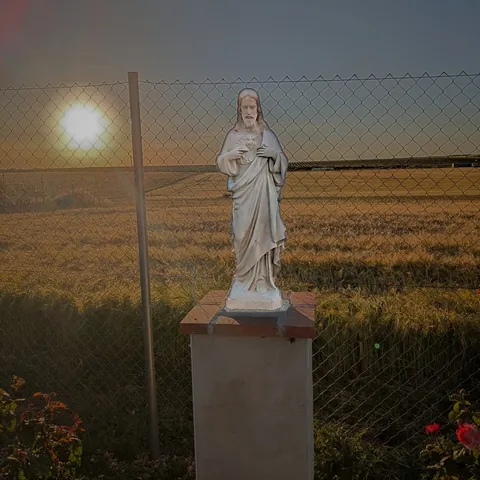
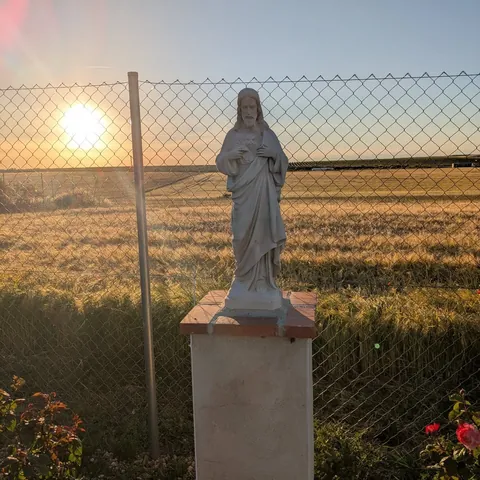
Sagrado Corazón: volver a la foto original
Claude-Session: https://claude.ai/code/session_01CUYjSQBrTt6S214k245qsV

diff --git a/en/index.html b/en/index.html
@@ -434,7 +434,7 @@ textarea{min-height:9rem;resize:vertical}
         <figure><img src="../fotos/paseo-burro-480.webp" srcset="../fotos/paseo-burro-480.webp 480w, ../fotos/paseo-burro-900.webp 900w" sizes="(max-width:880px) 50vw, 260px" width="900" height="900" loading="lazy" decoding="async" alt="Children riding the donkey across a stubble field, with adults walking alongside"><figcaption>Donkey rides for the youngest</figcaption></figure>
         <figure><img src="../fotos/capilla-perros-480.webp" srcset="../fotos/capilla-perros-480.webp 480w, ../fotos/capilla-perros-900.webp 900w" sizes="(max-width:880px) 50vw, 260px" width="900" height="900" loading="lazy" decoding="async" alt="A small white chapel with a bell gable; in front, the dogs rest on bales of straw"><figcaption>The chapel, under the dogs’ watch</figcaption></figure>
         <figure><img src="../fotos/capilla-interior-480.webp" srcset="../fotos/capilla-interior-480.webp 480w, ../fotos/capilla-interior-900.webp 900w" sizes="(max-width:880px) 50vw, 260px" width="900" height="900" loading="lazy" decoding="async" alt="The simple interior of the chapel, with an altar, a crucifix and two statues; a man sits reading on a bench"><figcaption>A time of prayer and silence in the hermitage chapel</figcaption></figure>
-        <figure><img src="../fotos/sagrado-corazon-480.webp?v=4" srcset="../fotos/sagrado-corazon-480.webp?v=4 480w, ../fotos/sagrado-corazon-900.webp?v=4 900w" sizes="(max-width:880px) 50vw, 260px" width="900" height="900" loading="lazy" decoding="async" alt="A statue of the Sacred Heart on a pedestal, facing a cereal field with the sun low"><figcaption>The Sacred Heart, facing the fields</figcaption></figure>
+        <figure><img src="../fotos/sagrado-corazon-480.webp?v=5" srcset="../fotos/sagrado-corazon-480.webp?v=5 480w, ../fotos/sagrado-corazon-900.webp?v=5 900w" sizes="(max-width:880px) 50vw, 260px" width="900" height="900" loading="lazy" decoding="async" alt="A statue of the Sacred Heart on a pedestal, facing a cereal field with the sun low"><figcaption>The Sacred Heart, facing the fields</figcaption></figure>
         <figure><img src="../fotos/cruz-piedra-480.webp" srcset="../fotos/cruz-piedra-480.webp 480w, ../fotos/cruz-piedra-900.webp 900w" sizes="(max-width:880px) 50vw, 260px" width="900" height="900" loading="lazy" decoding="async" alt="A lichen-covered stone cross among flowering broom and poppies, under a cloudy sky"><figcaption>Stone cross</figcaption></figure>
         <figure><img src="../fotos/atardecer-480.webp" srcset="../fotos/atardecer-480.webp 480w, ../fotos/atardecer-900.webp 900w" sizes="(max-width:880px) 50vw, 260px" width="900" height="900" loading="lazy" decoding="async" alt="A wooden hut with a cross on its roof and a tall cross in the field, at sunset"><figcaption>As evening falls</figcaption></figure>
       </div>

diff --git a/index.html b/index.html
@@ -434,7 +434,7 @@ textarea{min-height:9rem;resize:vertical}
         <figure><img src="fotos/paseo-burro-480.webp" srcset="fotos/paseo-burro-480.webp 480w, fotos/paseo-burro-900.webp 900w" sizes="(max-width:880px) 50vw, 260px" width="900" height="900" loading="lazy" decoding="async" alt="Niños a lomos del burro en un rastrojo, acompañados por adultos"><figcaption>Paseo en burro con los más pequeños</figcaption></figure>
         <figure><img src="fotos/capilla-perros-480.webp" srcset="fotos/capilla-perros-480.webp 480w, fotos/capilla-perros-900.webp 900w" sizes="(max-width:880px) 50vw, 260px" width="900" height="900" loading="lazy" decoding="async" alt="Pequeña capilla blanca con espadaña y campana; delante, los perros descansan sobre unas balas de paja"><figcaption>La capilla, bajo la guardia de los perros</figcaption></figure>
         <figure><img src="fotos/capilla-interior-480.webp" srcset="fotos/capilla-interior-480.webp 480w, fotos/capilla-interior-900.webp 900w" sizes="(max-width:880px) 50vw, 260px" width="900" height="900" loading="lazy" decoding="async" alt="Interior sencillo de la capilla, con altar, crucifijo y dos imágenes; un hombre lee sentado en un banco"><figcaption>Un rato de oración y silencio en la ermita</figcaption></figure>
-        <figure><img src="fotos/sagrado-corazon-480.webp?v=4" srcset="fotos/sagrado-corazon-480.webp?v=4 480w, fotos/sagrado-corazon-900.webp?v=4 900w" sizes="(max-width:880px) 50vw, 260px" width="900" height="900" loading="lazy" decoding="async" alt="Imagen del Sagrado Corazón sobre un pedestal, ante un campo de cereal con el sol bajo"><figcaption>El Sagrado Corazón, frente a los campos</figcaption></figure>
+        <figure><img src="fotos/sagrado-corazon-480.webp?v=5" srcset="fotos/sagrado-corazon-480.webp?v=5 480w, fotos/sagrado-corazon-900.webp?v=5 900w" sizes="(max-width:880px) 50vw, 260px" width="900" height="900" loading="lazy" decoding="async" alt="Imagen del Sagrado Corazón sobre un pedestal, ante un campo de cereal con el sol bajo"><figcaption>El Sagrado Corazón, frente a los campos</figcaption></figure>
         <figure><img src="fotos/cruz-piedra-480.webp" srcset="fotos/cruz-piedra-480.webp 480w, fotos/cruz-piedra-900.webp 900w" sizes="(max-width:880px) 50vw, 260px" width="900" height="900" loading="lazy" decoding="async" alt="Cruz de piedra cubierta de líquenes entre retamas en flor y amapolas, bajo un cielo nublado"><figcaption>Cruz de piedra</figcaption></figure>
         <figure><img src="fotos/atardecer-480.webp" srcset="fotos/atardecer-480.webp 480w, fotos/atardecer-900.webp 900w" sizes="(max-width:880px) 50vw, 260px" width="900" height="900" loading="lazy" decoding="async" alt="Caseta de madera con una cruz en el tejado y una gran cruz en el campo, al atardecer"><figcaption>Al caer la tarde</figcaption></figure>
       </div>
